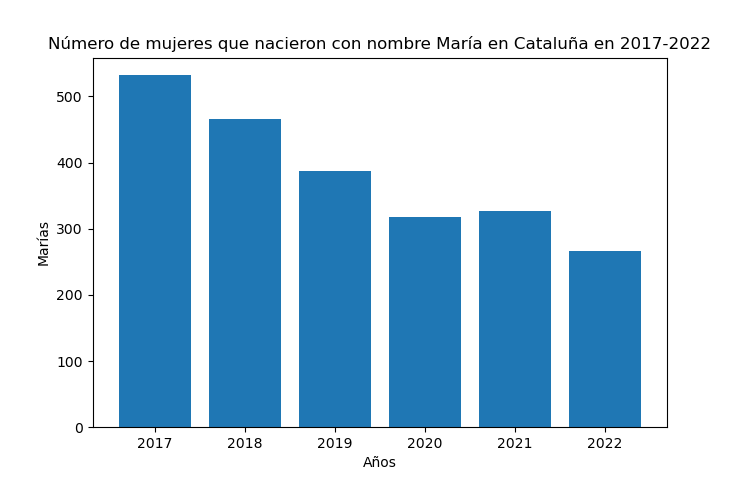
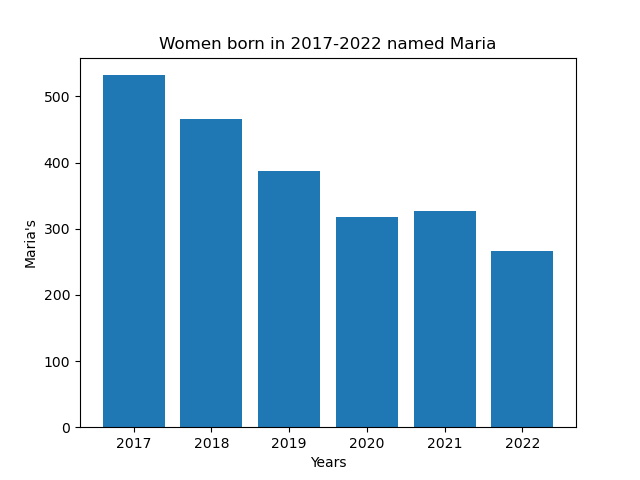
ws2

diff --git a/Ws2.py b/Ws2.py
@@ -3,22 +3,52 @@ import pandas as pd
 import matplotlib.pyplot as plt
 import requests
 import json
+import numpy as np
+
+
+file = pd.read_csv('newborns_catalonia.csv', sep=';')
+girls = file['Girls']
+girls_5years = girls[0:5]
 
 r1= requests.get("https://api.idescat.cat/onomastica/v1/nadons/dades.json?id=40683&class=t&lang=en")
 
 data = r1.text
-data = json.loads(data)
+data = json.loads(data)     
 ff = data['onomastica_nadons']['ff']['f']
 
 num_marias = []
 for dic in ff:
     maria = dic['pos1']['v']
-    if dic['c'] in ['2017','2018','2019','2020','2021','2022']:
+    if dic['c'] in ['2018','2019','2020','2021','2022']:
         num_marias.append(int(maria))
+
+
+categories = ['2018','2019','2020','2021','2022']
+
+fig, ax = plt.subplots()
+width = 0.35  # Width of each bar
+x = np.arange(len(categories))  # X-axis positions
+print(list(girls_5years))
 print(num_marias)
-plt.bar(['2017','2018','2019','2020','2021','2022'],num_marias)
-plt.xlabel('Años')
-plt.ylabel('Marías')
-plt.title('Número de mujeres que nacieron con nombre María en Cataluña en 2017-2022')
+bar1 = ax.bar(x - width/2, list(girls_5years), width, label='Number of girls born per year')
+bar2 = ax.bar(x + width/2, num_marias, width, label='Number of Marias born per year')
+
+# Add labels and title
+ax.set_xlabel('Years')
+ax.set_title('Total women and women named Maria for the last 5 years')
+ax.set_xticks(x)
+ax.set_xticklabels(categories)
+ax.legend()
+plt.savefig('joined_barplot_girls_marias.png')
 plt.show()
+
+
+
+
+plt.bar(['2018','2019','2020','2021','2022'],num_marias)
+plt.xlabel('Years')
+plt.ylabel('Maria\'s')
+plt.title('Women born in 2017-2022 named Maria')
 plt.savefig('ws2_marias.png')
+plt.show()
+

diff --git a/Ws1.py b/Ws1.py
@@ -27,8 +27,8 @@ df1 = df1.T
 df1 = df1.groupby(df1.index.str.split('-').str[0]).mean()
 
 plt.bar(['2017','2018','2019','2020','2021','2022'], list(df1.iloc[:, 0]))
-plt.xlabel('Años')
-plt.ylabel('Valor')
+plt.xlabel('Years')
+plt.ylabel('Values')
 plt.title('EU Confidence 2017-2022')
 plt.gca().invert_yaxis()
 
@@ -41,9 +41,11 @@ columns_to_select = [f"{2022}-{month:02}" for month in range(1, 13)]
 df2 = df[columns_to_select]
 df2 = df2[12:13]
 
+
+
 plt.bar(['Jan','Feb','Mar','Apr','May','Jun,','Jul', 'Aug','Sep','Oct','Nov','Dec'], list(df2.iloc[0]))
-plt.xlabel('Índice')
-plt.ylabel('Valor')
+plt.xlabel('Months')
+plt.ylabel('Values')
 plt.title('EU Confidence 2017-2022')
 plt.gca().invert_yaxis()
 plt.show()
